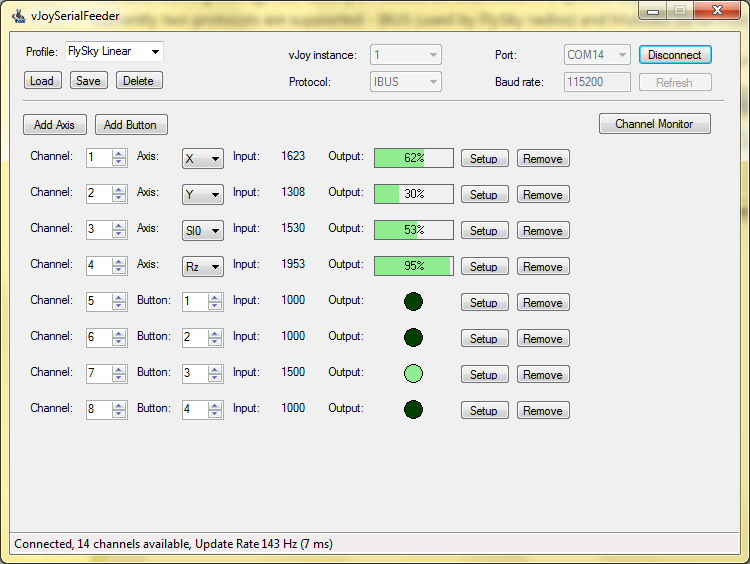
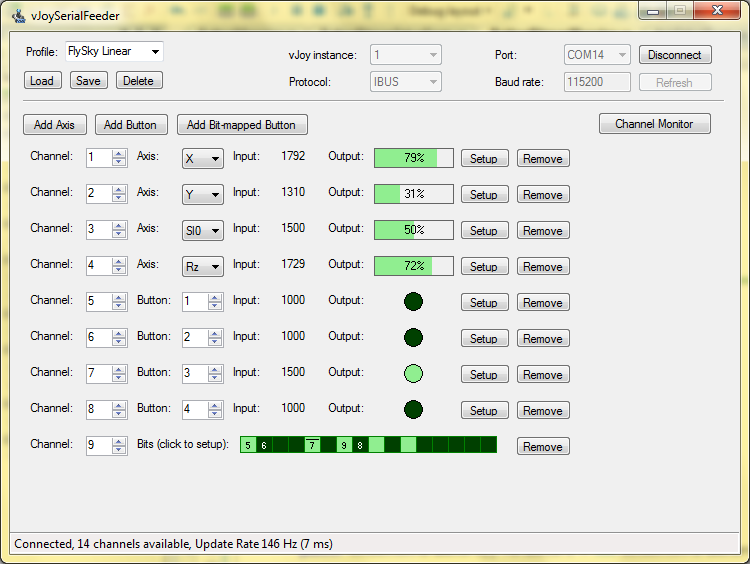
Add documentation for Bit-mapped Buttons

diff --git a/docs/MANUAL.md b/docs/MANUAL.md
@@ -8,7 +8,8 @@ _Tech details:_ Serial data arrives in _frames_. Different protocols use differe
 * Mapping.\
 A mapping is a rule which transforms the integer channel data in a value that can be fed to vJoy. There are two types of mappings:
   1. Axis Mapping - used to transform a channel to a joystick axis (X, Y, Slider, etc.).
-  2. Button Mapping - used to transform channel value to a binary button state - pressed/depressed.
+  2. Button Mapping - used to transform channel value to a binary button state - pressed/depressed - using threshold(s).
+  3. Bit-mapped Button Mapping - takes the channel values as 16-bit integer and allows each bit to command one button (16 buttons total).
   
 ## How to use ##
 1. First you have to decide how you are going to get the serial data you need. Refer to [Use cases](../README.md).
@@ -25,8 +26,8 @@ A mapping is a rule which transforms the integer channel data in a value that ca
 6. Open the **Channel Monitor** and see if everything seems to be working OK. Try changing your inputs and confirm that channels are changing value.
 
 7. Start mapping!\
-Use the **Add Axis** and **Add Button** buttons to add mappings to the interface.\
-All mappings can take data from only one channel. What is done with the data depends on the mapping type.
+Use the **Add Axis**,  **Add Button** and **Add Bit-mapped Button** buttons to add mappings to the interface.\
+All mappings can take data from only one channel. Use the **Channel** input box to select it. What is done with the data depends on the mapping type.
   * In Axis Mappings, there is a **Axis** dropdown menu from which you can select the joystick axis which you would like to command with the selected channel. Please note that your vJoy configuration may or may not have some of the axes enabled.\
 Axis Mappings can be thought of as a function which take the input channel value and returns axis value between 0% and 100%.\
   In the **Setup** dialog there are various parameters which can be tweaked to make that function do what you need.
@@ -42,15 +43,30 @@ Axis Mappings can be thought of as a function which take the input channel value
   **Expo** makes the channel value transformation a non linear function. The most common use is to make your controls less sensitive around the center and fully responsive near the endpoints.\
   The **Calibrate** button allows easy setting of the **Minimum**, **Maximum** and **Center** parameters. Just click it and follow the instructions.
   
-  * Button Mappings work by defining one or two thresholds.
+  * Button Mappings work by defining one or two thresholds. First you have to select the vJoy **Button** (numbered from 1 to 128) that you would like to command with this channel. Please note that the actual number of buttons available depends on the vJoy configuration.\
+  Click **Setup** for more parameters:
   
   ![button-setup](images/button-setup.png)
   
   In **one threshold** mode the button state is determined depending on the value being _lower_ or _higher_ than the threshold.\
   In **two thresholds** mode the button is in one state if the value is _between_ the two thresholds and in the other state if it is _outside_ them.\
-  Your mapping can set the state of vJoy buttons numbered from 1 to 128. Please note that the actual number of buttons available depends on the vJoy configuration.\
   The **Invert** parameter inverts the button logic.\
   The **Calibrate** buttons allows for easy setup of the threshold. It only works in **one threshold** mode.
   
+  * Bit-mapped Button Mappings take the channel's 16-bit value and allows each bit to be mapped to a button. The interface show representation of the channel 16 bits as boxes:
+  
+  ![bitmap](images/bitmap.png)
+  
+  _Tech details:_ The LSB is displayed on the _left_. The usual way to represent the bits of a number is to place the LSB to the _right_, but for our purposes LSB to the left makes more sense.
+  
+  Initially the bits are not mapped to anything. Click a bit box to set it up:
+  
+  ![bitmap-setup](images/bitmap-setup.png)
+  
+  **Enable** tells that you want to map this bit.\
+  **Button** selects the vJoy button you want to command with this bit.\
+  Normally, a zero bit results in depressed button and one bit - in pressed. If you want the reverse - check **Invert**.\
+  After a button has been mapped its vJoy button id is shown in the box. If the button is inverted an overbar is shown above the number.\
+  For unmapped bits (no number shown) the color of the box represents the _input_ bit. For mapped bits the color represents the vJoy button state.
   
 8. Save your your configuration as a **Profile**. Enter a profile name in the text box and click **Save**. The last used profile is automatically loaded on next run.

diff --git a/docs/Arduino.md b/docs/Arduino.md
@@ -5,7 +5,7 @@ It is very easy to use VJoySerialFeeder with Arduino. You can use [this simple s
 
 Analog data is read using the 10-bit ADC which results in channel values between 0 and 1023.
 
-Digital data is read from the digital pins and is send as channel values 0 for logical 0 and 1023 for logical 1.
+Digital data is read from the digital pins and is send as channel values 0 for LOW and 1023 for HIGH _or_ up to 16 digital pins can be encoded as bits (0 or 1) in a single channel (channel values are 16-bit integers).
 
 Analog channels are most easily implemented with potentiometers and digital - with switches.
 
@@ -14,7 +14,7 @@ If you have an old toy RC controller it is quite easy to read its pots with ardu
 
 ![RC](images/ard1.jpg)
 
-In general, every potentiometer in the RC conroller has three pins - the two outer pins are for Ground and +Voltage and the center pin is for reading the output (it varies between 0 and +Voltage, depending on the rotation).
+In general, every potentiometer in the RC controller has three pins - the two outer pins are for Ground and +Voltage and the center pin is for reading the output (it varies between 0 and +Voltage, depending on the rotation).
 
 The center pins of the four pots must be connected to four of the analog pins of the Arduino.
 
